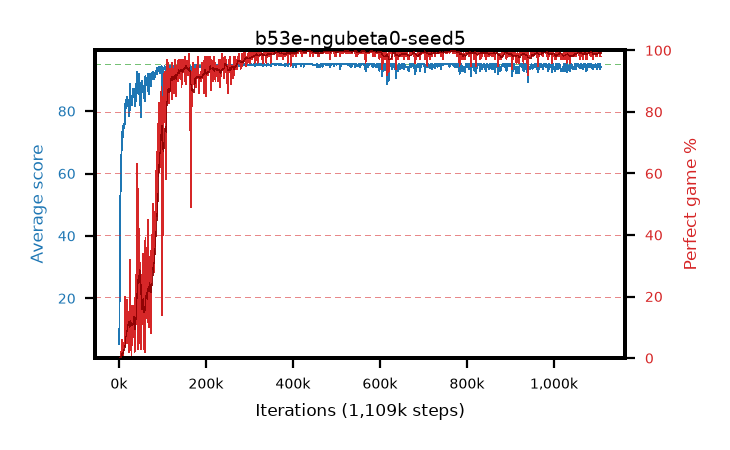
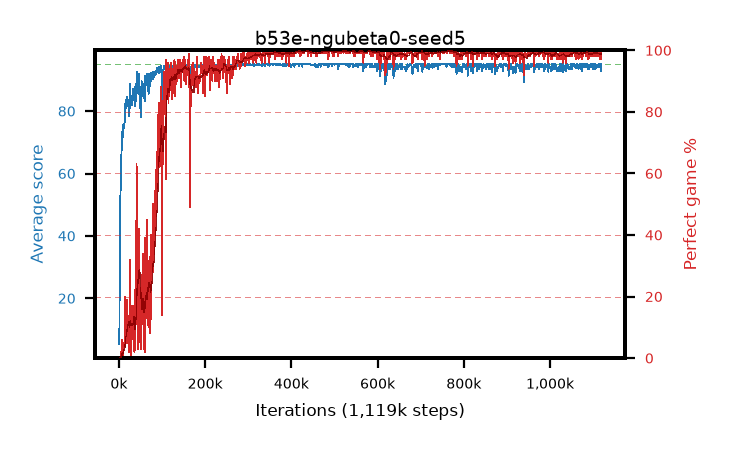
live pictures of 4 arm(s)

diff --git a/results/b53e-ngubeta0-seed5/b53e-ngubeta0-seed5.md b/results/b53e-ngubeta0-seed5/b53e-ngubeta0-seed5.md
@@ -1,6 +1,6 @@
 # b53e-ngubeta0-seed5
 
-step **1,109,000** · 1109 evals · trailing **94.41** · peak **94.95** @437,000 · sef **90.9** · best30 **99.8** @530,000
+step **1,119,000** · 1119 evals · trailing **94.41** · peak **94.95** @437,000 · sef **91.0** · best30 **99.8** @530,000
 
 ## Config
 
@@ -80,15 +80,15 @@ step **1,109,000** · 1109 evals · trailing **94.41** · peak **94.95** @437,00
 | 2000 | 29.39 | 17.35 | 3.0 | 54.0 | 24.459 | 0.0 | 0.4 |
 | 3000 | 50.81 | 28.5 | 16.0 | 85.0 | 45.457 | 0.0 | 0.4 |
 | ... | ... | ... | ... | ... | ... | ... | ... |
-| 1098000 | 94.25 | 94.39 | 20.0 | 95.0 | 191.995 | 99.0 | 0.4 |
-| 1099000 | 93.48 | 94.37 | 14.0 | 95.0 | 190.179 | 98.0 | 0.4 |
-| 1100000 | 95.0 | 94.37 | 95.0 | 95.0 | 193.778 | 100.0 | 0.4 |
-| 1101000 | 94.22 | 94.37 | 17.0 | 95.0 | 191.965 | 99.0 | 0.4 |
-| 1102000 | 95.0 | 94.37 | 95.0 | 95.0 | 193.788 | 100.0 | 0.4 |
-| 1103000 | 95.0 | 94.44 | 95.0 | 95.0 | 193.783 | 100.0 | 0.4 |
-| 1104000 | 95.0 | 94.47 | 95.0 | 95.0 | 193.783 | 100.0 | 0.4 |
-| 1105000 | 93.42 | 94.49 | 13.0 | 95.0 | 190.122 | 98.0 | 0.4 |
-| 1106000 | 95.0 | 94.49 | 95.0 | 95.0 | 193.777 | 100.0 | 0.4 |
-| 1107000 | 93.84 | 94.46 | 26.0 | 95.0 | 190.545 | 98.0 | 0.4 |
 | 1108000 | 94.3 | 94.43 | 27.0 | 95.0 | 191.045 | 98.0 | 0.4 |
 | 1109000 | 94.22 | 94.41 | 22.0 | 95.0 | 190.973 | 98.0 | 0.4 |
+| 1110000 | 94.25 | 94.38 | 20.0 | 95.0 | 192.003 | 99.0 | 0.4 |
+| 1111000 | 94.15 | 94.38 | 15.0 | 95.0 | 190.902 | 98.0 | 0.4 |
+| 1112000 | 95.0 | 94.41 | 95.0 | 95.0 | 193.783 | 100.0 | 0.4 |
+| 1113000 | 95.0 | 94.41 | 95.0 | 95.0 | 193.788 | 100.0 | 0.4 |
+| 1114000 | 95.0 | 94.44 | 95.0 | 95.0 | 193.781 | 100.0 | 0.4 |
+| 1115000 | 94.11 | 94.43 | 19.0 | 95.0 | 189.859 | 97.0 | 0.4 |
+| 1116000 | 94.84 | 94.43 | 81.0 | 95.0 | 191.547 | 98.0 | 0.4 |
+| 1117000 | 94.26 | 94.41 | 24.0 | 95.0 | 190.967 | 98.0 | 0.4 |
+| 1118000 | 95.0 | 94.43 | 95.0 | 95.0 | 193.791 | 100.0 | 0.4 |
+| 1119000 | 92.77 | 94.41 | 16.0 | 95.0 | 188.451 | 97.0 | 0.4 |

diff --git a/results/b53g-ngubeta0-seed7/b53g-ngubeta0-seed7.md b/results/b53g-ngubeta0-seed7/b53g-ngubeta0-seed7.md
@@ -1,6 +1,6 @@
 # b53g-ngubeta0-seed7
 
-step **1,119,000** · 1119 evals · trailing **94.78** · peak **94.97** @274,000 · sef **90.1** · best30 **99.8** @1,111,000
+step **1,129,000** · 1129 evals · trailing **94.52** · peak **94.97** @274,000 · sef **90.2** · best30 **99.8** @1,111,000
 
 ## Config
 
@@ -80,15 +80,15 @@ step **1,119,000** · 1119 evals · trailing **94.78** · peak **94.97** @274,00
 | 2000 | 37.8 | 20.34 | 6.0 | 63.0 | 32.628 | 0.0 | 0.4 |
 | 3000 | 67.99 | 36.22 | 23.0 | 95.0 | 74.006 | 11.0 | 0.4 |
 | ... | ... | ... | ... | ... | ... | ... | ... |
-| 1108000 | 95.0 | 94.87 | 95.0 | 95.0 | 193.779 | 100.0 | 0.4 |
-| 1109000 | 95.0 | 94.87 | 95.0 | 95.0 | 193.79 | 100.0 | 0.4 |
-| 1110000 | 94.97 | 94.87 | 92.0 | 95.0 | 192.759 | 99.0 | 0.4 |
-| 1111000 | 95.0 | 94.9 | 95.0 | 95.0 | 193.786 | 100.0 | 0.4 |
-| 1112000 | 95.0 | 94.9 | 95.0 | 95.0 | 193.791 | 100.0 | 0.4 |
-| 1113000 | 94.37 | 94.88 | 32.0 | 95.0 | 192.113 | 99.0 | 0.4 |
-| 1114000 | 95.0 | 94.91 | 95.0 | 95.0 | 193.785 | 100.0 | 0.4 |
-| 1115000 | 94.33 | 94.88 | 28.0 | 95.0 | 192.078 | 99.0 | 0.4 |
-| 1116000 | 94.99 | 94.88 | 94.0 | 95.0 | 192.74 | 99.0 | 0.4 |
-| 1117000 | 92.67 | 94.8 | 13.0 | 95.0 | 188.345 | 97.0 | 0.4 |
 | 1118000 | 94.19 | 94.78 | 14.0 | 95.0 | 191.939 | 99.0 | 0.4 |
 | 1119000 | 95.0 | 94.78 | 95.0 | 95.0 | 193.787 | 100.0 | 0.4 |
+| 1120000 | 93.87 | 94.74 | 29.0 | 95.0 | 190.573 | 98.0 | 0.4 |
+| 1121000 | 94.31 | 94.72 | 26.0 | 95.0 | 192.065 | 99.0 | 0.4 |
+| 1122000 | 94.34 | 94.69 | 29.0 | 95.0 | 192.095 | 99.0 | 0.4 |
+| 1123000 | 92.75 | 94.64 | 9.0 | 95.0 | 188.424 | 97.0 | 0.4 |
+| 1124000 | 95.0 | 94.64 | 95.0 | 95.0 | 193.797 | 100.0 | 0.4 |
+| 1125000 | 93.61 | 94.6 | 20.0 | 95.0 | 190.323 | 98.0 | 0.4 |
+| 1126000 | 94.24 | 94.57 | 19.0 | 95.0 | 191.988 | 99.0 | 0.4 |
+| 1127000 | 94.23 | 94.55 | 18.0 | 95.0 | 191.979 | 99.0 | 0.4 |
+| 1128000 | 95.0 | 94.55 | 95.0 | 95.0 | 193.793 | 100.0 | 0.4 |
+| 1129000 | 94.24 | 94.52 | 19.0 | 95.0 | 191.992 | 99.0 | 0.4 |
